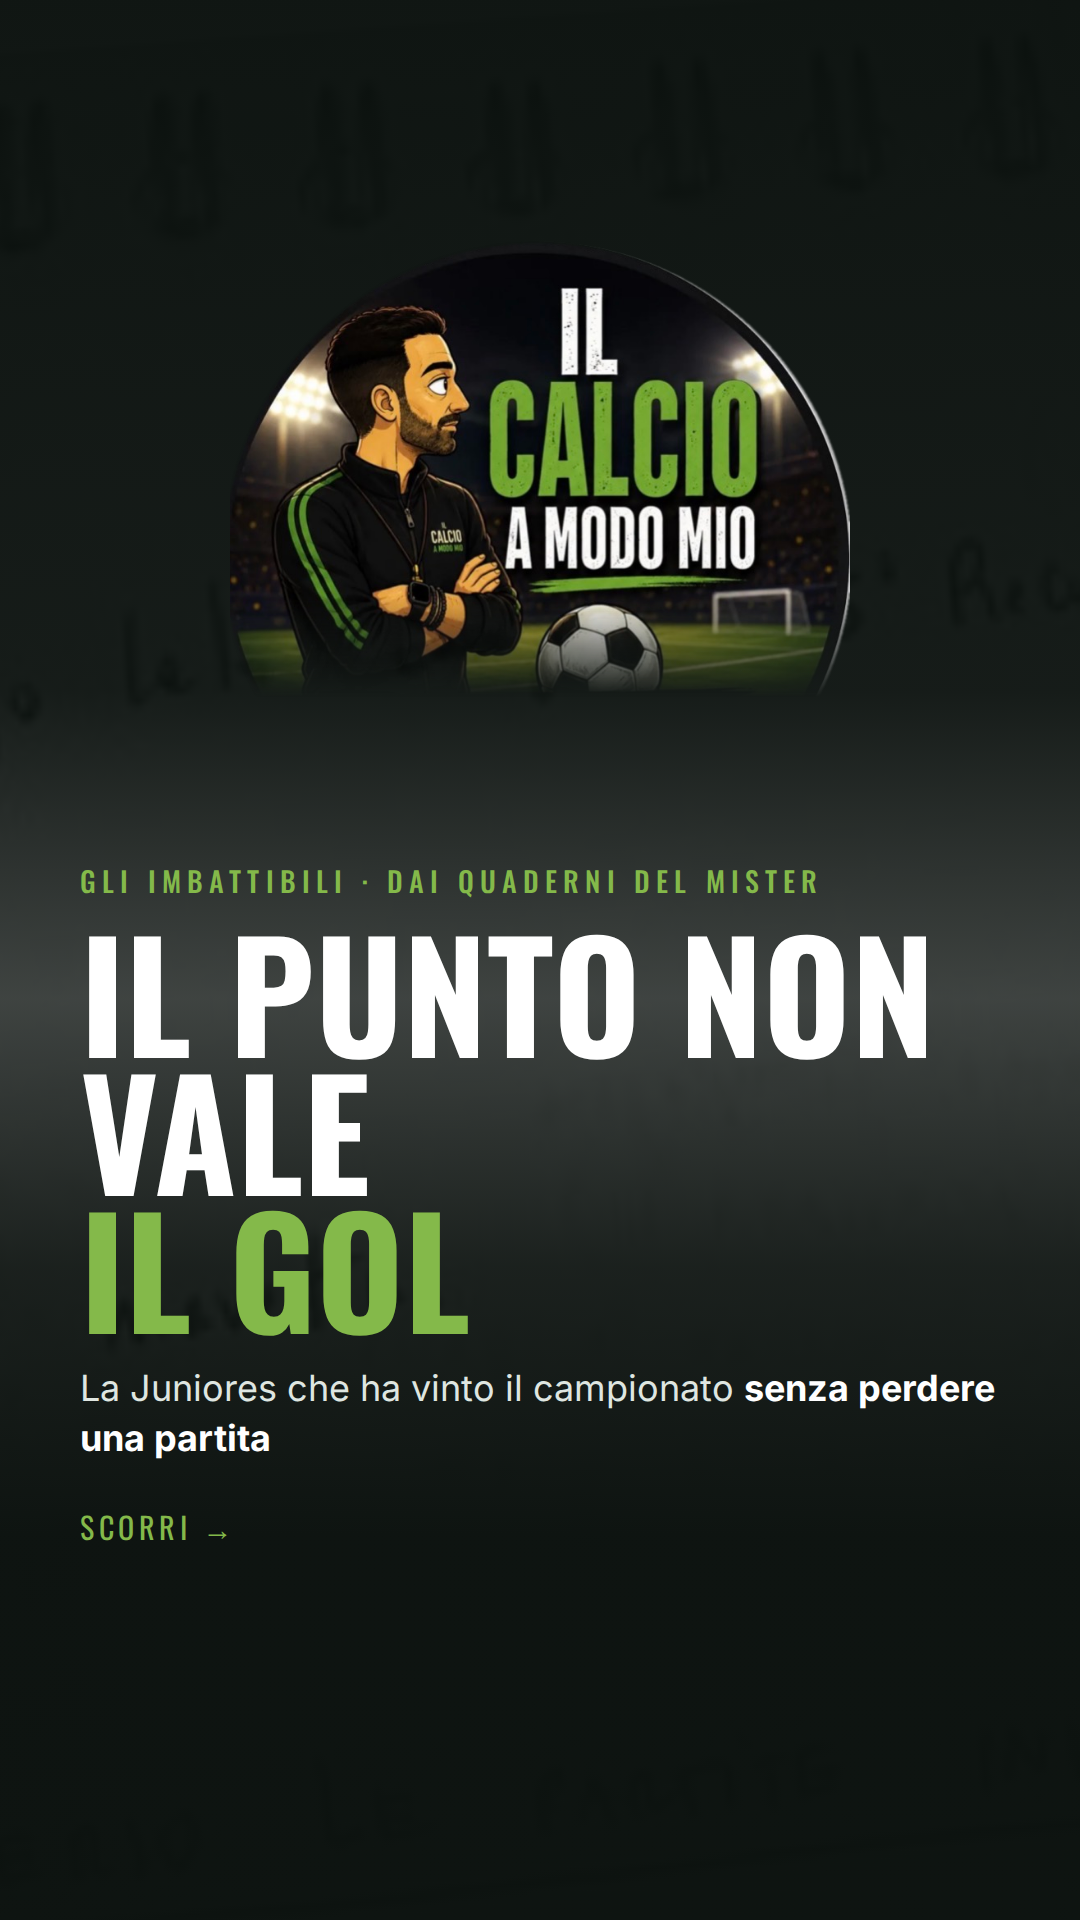
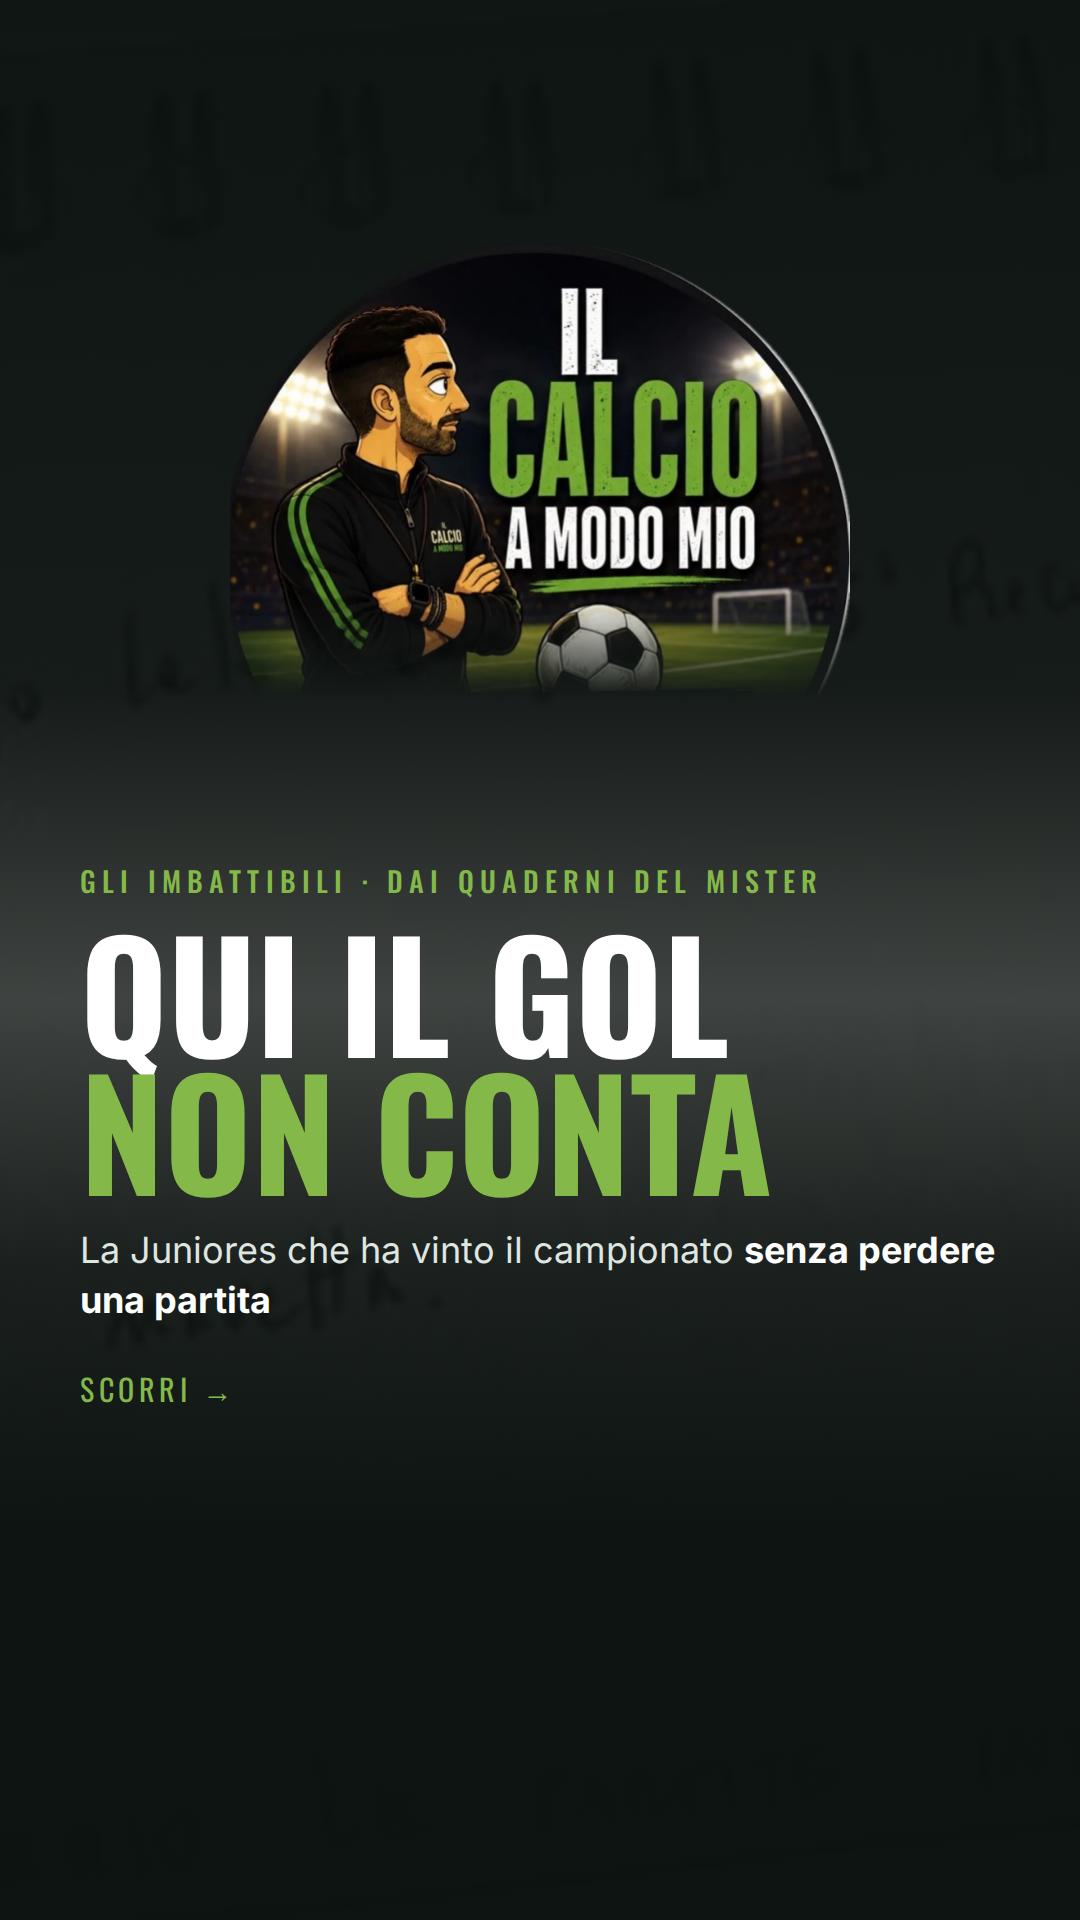
Post 2: gancio più chiaro, "Qui il gol non conta"
Claude-Session: https://claude.ai/code/session_01T1DvqVhXRKVRXxiAqrgsV9

Changed region(s): [[0.0611, 0.4688, 0.9167, 0.8125]]

diff --git a/marketing/social/post-4x5.html b/marketing/social/post-4x5.html
@@ -106,7 +106,7 @@ h1, h2 { font-family: Oswald, sans-serif; font-weight: 700; text-transform: uppe
   <img class="logo" src="../../materiale/brand/logo-cerchio.png">
   <div class="txt">
     <div class="kick">Gli Imbattibili · dai quaderni del mister</div>
-    <h1>Il punto non vale<span>il gol</span></h1>
+    <h1>Qui il gol<span>non conta</span></h1>
     <p class="sub">La Juniores che ha vinto il campionato <b>senza perdere una partita</b></p>
     <div class="scorri">Scorri →</div>
   </div>

diff --git a/marketing/social/post-9x16.html b/marketing/social/post-9x16.html
@@ -106,7 +106,7 @@ h1, h2 { font-family: Oswald, sans-serif; font-weight: 700; text-transform: uppe
   <img class="logo" src="../../materiale/brand/logo-cerchio.png">
   <div class="txt">
     <div class="kick">Gli Imbattibili · dai quaderni del mister</div>
-    <h1>Il punto non vale<span>il gol</span></h1>
+    <h1>Qui il gol<span>non conta</span></h1>
     <p class="sub">La Juniores che ha vinto il campionato <b>senza perdere una partita</b></p>
     <div class="scorri">Scorri →</div>
   </div>

diff --git a/marketing/social/genera-post.py b/marketing/social/genera-post.py
@@ -101,7 +101,7 @@ POST = [
     ),
     dict(
         n=2, foto="allenamento-04-b.jpg",
-        gancio="Il punto non vale<span>il gol</span>",
+        gancio="Qui il gol<span>non conta</span>",
         schema=schema_partita,
         titolo2="Partita “lavoro preventivo”",
         testo2="10 contro 10 su 50 m. <b>1 punto</b> a chi riceve <b>spalle alla porta e riesce a girarsi</b>. Chi difende deve stargli addosso <b>prima</b> che arrivi la palla.",

diff --git a/marketing/social/testi-dei-post.md b/marketing/social/testi-dei-post.md
@@ -46,7 +46,7 @@ Chi perde fa 5 suicidi a fine allenamento, chi vince 1. Vi assicuro che nessuno 
 
 **Instagram**
 
-Il punto non vale il gol 🔄
+Qui il gol non conta 🔄
 Partita a tema per allenare le marcature preventive. Le regole sono nel carosello.
 Dalla Juniores che ha vinto il campionato senza perdere una partita.
 Voi che partite a tema usate per le preventive? 👇
